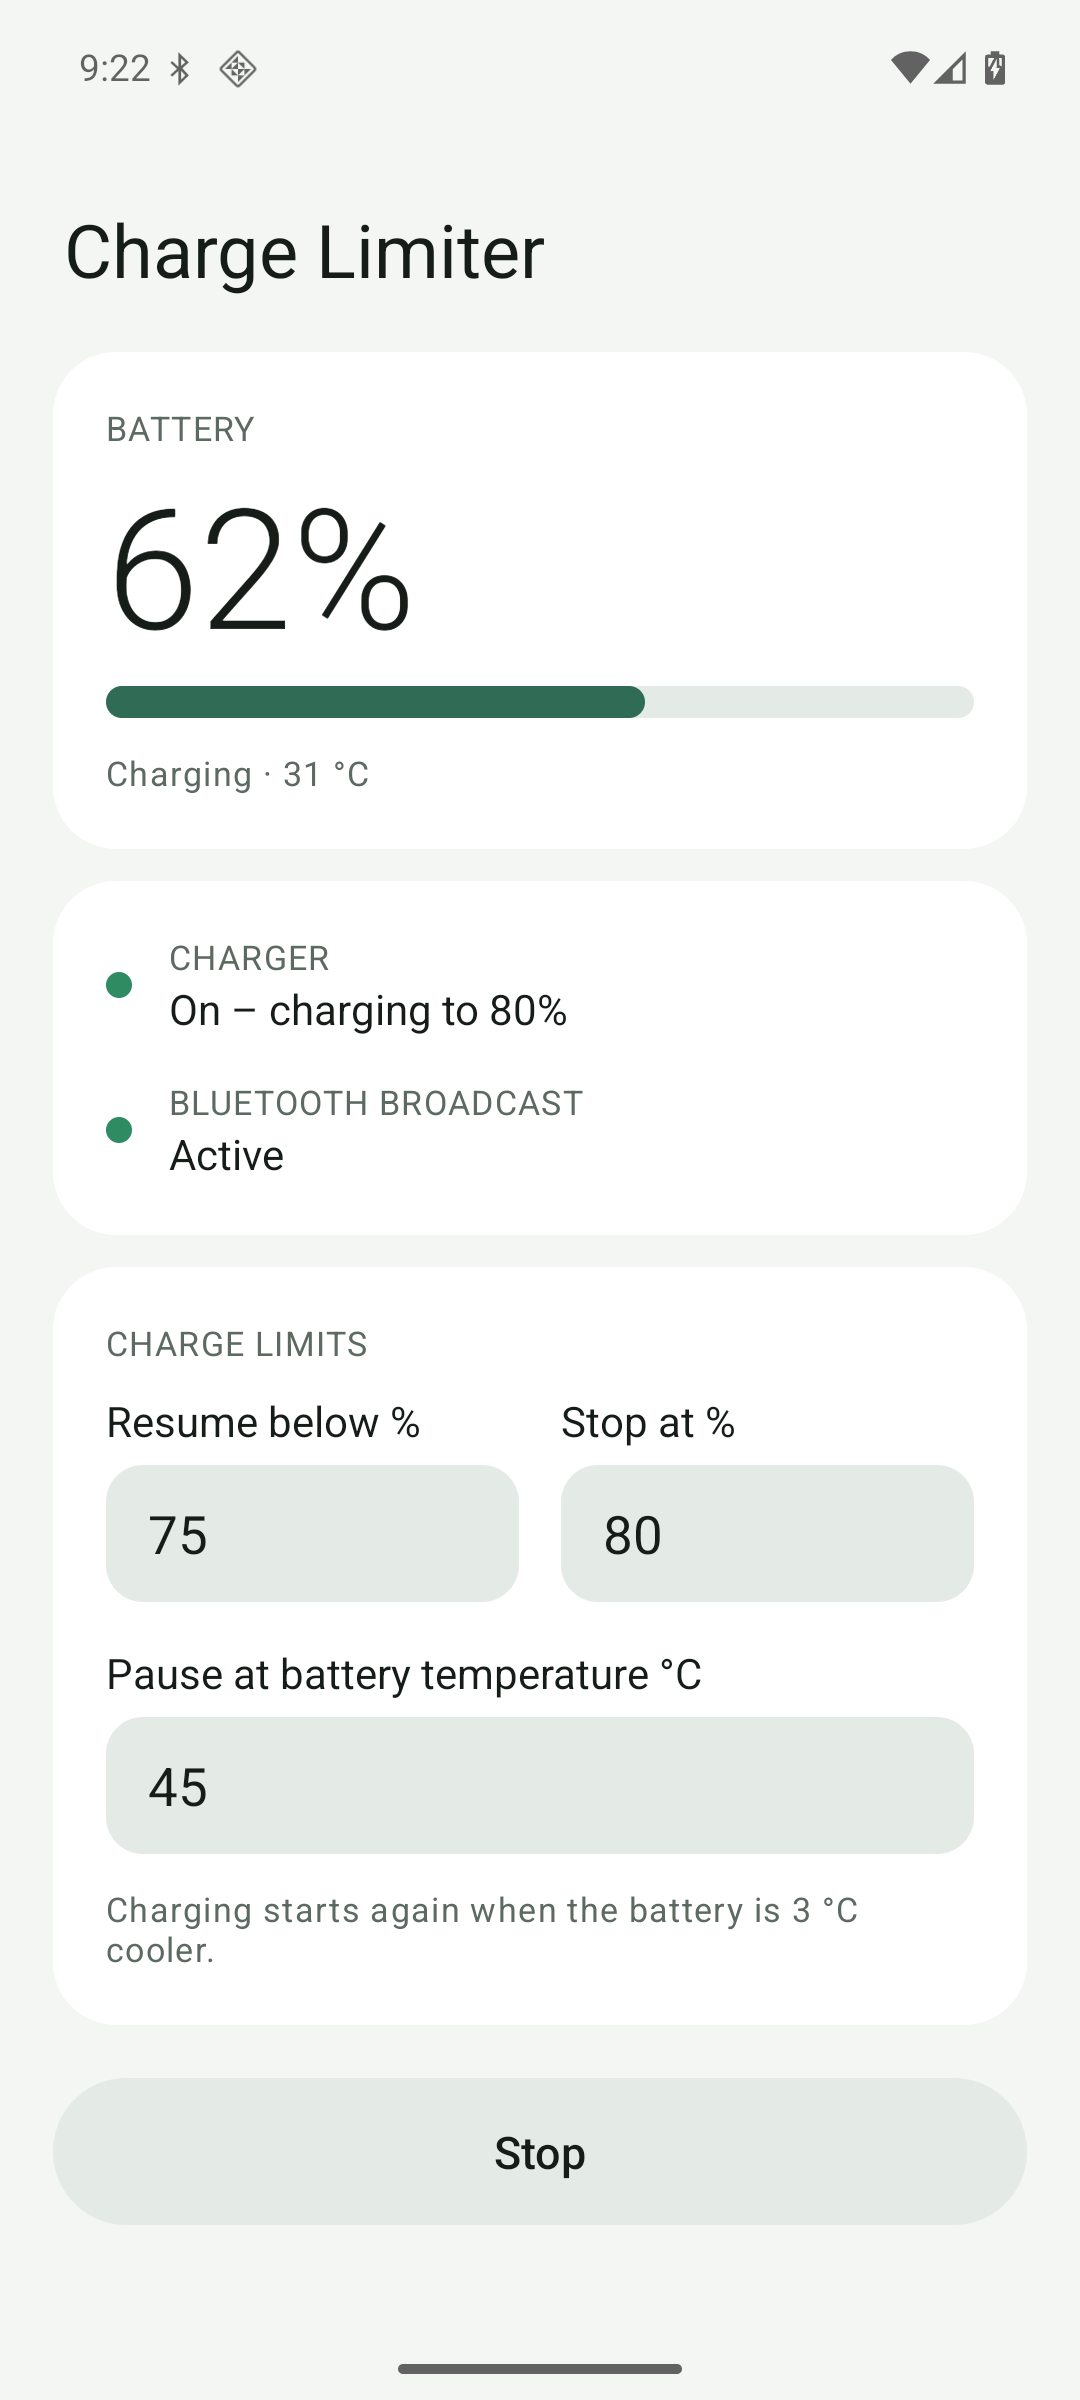
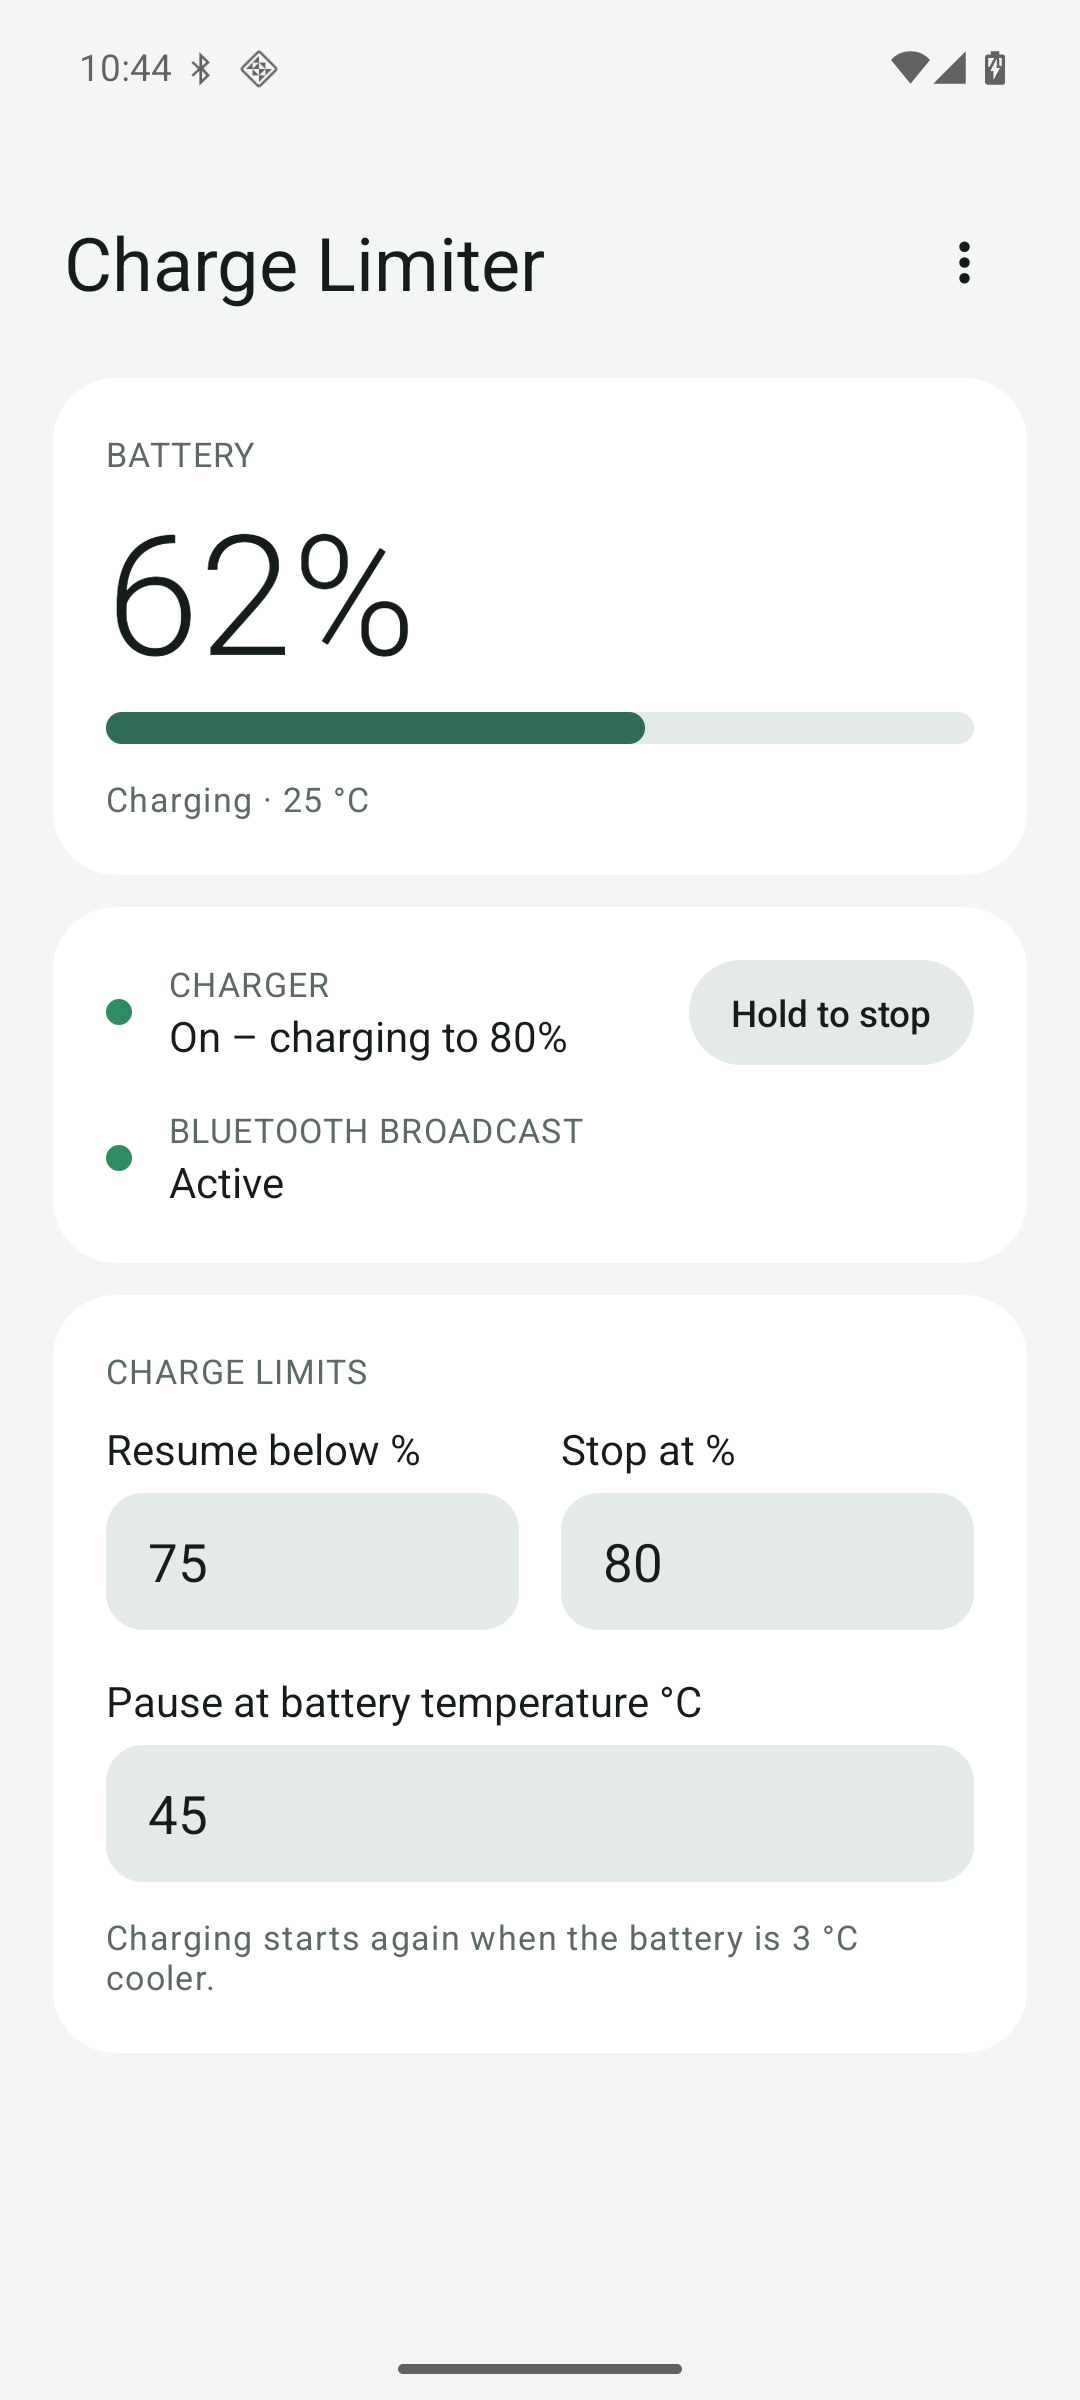
feat: inline hold-to-stop in the status card, updates in a menu

diff --git a/app/src/main/kotlin/app/chargelimit/MainActivity.kt b/app/src/main/kotlin/app/chargelimit/MainActivity.kt
@@ -21,6 +21,8 @@ import android.view.MotionEvent
 import android.view.View
 import android.widget.Button
 import android.widget.EditText
+import android.widget.ImageButton
+import android.widget.PopupMenu
 import android.widget.ProgressBar
 import android.widget.TextView
 import android.widget.Toast
@@ -38,7 +40,8 @@ class MainActivity : Activity() {
     private lateinit var high: EditText
     private lateinit var hot: EditText
     private lateinit var toggle: Button
-    private lateinit var version: TextView
+    private lateinit var stopHold: Button
+    private lateinit var menu: ImageButton
     private lateinit var update: Button
     private var holdAnimator: ValueAnimator? = null
     private var pendingRelease: Updater.Release? = null
@@ -58,7 +61,8 @@ class MainActivity : Activity() {
         high = findViewById(R.id.high)
         hot = findViewById(R.id.hot)
         toggle = findViewById(R.id.toggle)
-        version = findViewById(R.id.version)
+        stopHold = findViewById(R.id.stopHold)
+        menu = findViewById(R.id.menu)
         update = findViewById(R.id.update)
 
         showRange()
@@ -66,9 +70,11 @@ class MainActivity : Activity() {
         low.onFocusChangeListener = saveOnBlur
         high.onFocusChangeListener = saveOnBlur
         hot.onFocusChangeListener = saveOnBlur
-        toggle.setOnClickListener { if (settings.enabled) confirmStop() else startService() }
-        toggle.setOnTouchListener { _, event -> settings.enabled && onHoldTouch(event) }
-        update.setOnClickListener { pendingRelease?.let(::installUpdate) ?: checkForUpdate() }
+        toggle.setOnClickListener { startService() }
+        stopHold.setOnClickListener { confirmStop() }
+        stopHold.setOnTouchListener { _, event -> onHoldTouch(event) }
+        update.setOnClickListener { pendingRelease?.let(::installUpdate) }
+        menu.setOnClickListener { showMenu() }
     }
 
     // Android 13 added the not-exported flag.
@@ -89,7 +95,7 @@ class MainActivity : Activity() {
         if (settings.enabled && ChargeService.lastStatus == null) ChargeService.start(this)
         showStatus(ChargeService.lastStatus)
         showToggle()
-        showVersion()
+        checkDaily()
     }
 
     override fun onStop() {
@@ -165,9 +171,8 @@ class MainActivity : Activity() {
 
     private fun showToggle() {
         val running = settings.enabled
-        toggle.setText(if (running) R.string.hold_to_stop else R.string.start)
-        toggle.setBackgroundResource(if (running) R.drawable.button_hold else R.drawable.button_primary)
-        toggle.setTextColor(getColor(if (running) R.color.on_surface else R.color.on_accent))
+        toggle.visibility = if (running) View.GONE else View.VISIBLE
+        stopHold.visibility = if (running) View.VISIBLE else View.GONE
     }
 
     private fun showRange() {
@@ -266,7 +271,7 @@ class MainActivity : Activity() {
         return true
     }
 
-    private fun holdFill() = (toggle.background as? LayerDrawable)?.findDrawableByLayerId(R.id.fill)
+    private fun holdFill() = (stopHold.background as? LayerDrawable)?.findDrawableByLayerId(R.id.fill)
 
     private fun startHold() {
         cancelHold()
@@ -293,32 +298,46 @@ class MainActivity : Activity() {
         holdFill()?.level = 0
     }
 
-    private fun showVersion() {
+    /** Shows the menu with the version and the check for updates. */
+    private fun showMenu() {
         val current = Updater.currentVersion(this)
-        version.text = getString(R.string.version_label, current)
-        if (!UpdatePolicy.canSelfUpdate(current)) {
-            update.setText(R.string.update_dev)
-            update.isEnabled = false
-            return
+        val popup = PopupMenu(this, menu)
+        popup.menu.add(getString(R.string.version_label, current)).isEnabled = false
+        if (UpdatePolicy.canSelfUpdate(current)) {
+            popup.menu.add(R.string.update_check).setOnMenuItemClickListener {
+                checkForUpdate(byUser = true)
+                true
+            }
+        } else {
+            popup.menu.add(R.string.update_dev).isEnabled = false
         }
-        if (pendingRelease == null && UpdatePolicy.dueForCheck(System.currentTimeMillis(), settings.lastUpdateCheck)) {
-            checkForUpdate()
+        popup.show()
+    }
+
+    /** Looks for an update one time each day when the screen opens. */
+    private fun checkDaily() {
+        if (!UpdatePolicy.canSelfUpdate(Updater.currentVersion(this))) return
+        if (pendingRelease != null) return
+        if (UpdatePolicy.dueForCheck(System.currentTimeMillis(), settings.lastUpdateCheck)) {
+            checkForUpdate(byUser = false)
         }
     }
 
-    private fun checkForUpdate() {
-        update.isEnabled = false
-        update.setText(R.string.update_checking)
+    /** Shows the update button for a newer release. Tells the result only when the user asked. */
+    private fun checkForUpdate(byUser: Boolean) {
+        if (byUser) Toast.makeText(this, R.string.update_checking, Toast.LENGTH_SHORT).show()
         settings.lastUpdateCheck = System.currentTimeMillis()
         Updater.background({ Updater.newerRelease(applicationContext) }) { result ->
             if (isDestroyed) return@background
-            update.isEnabled = true
             val release = result.getOrNull()
             pendingRelease = release
-            update.text = when {
-                result.isFailure -> getString(R.string.update_check_failed)
-                release == null -> getString(R.string.update_none)
-                else -> getString(R.string.update_available, release.version)
+            if (release != null) {
+                update.text = getString(R.string.update_available, release.version)
+                update.isEnabled = true
+                update.visibility = View.VISIBLE
+            } else if (byUser) {
+                val message = if (result.isFailure) R.string.update_check_failed else R.string.update_none
+                Toast.makeText(this, message, Toast.LENGTH_LONG).show()
             }
         }
     }
@@ -334,6 +353,7 @@ class MainActivity : Activity() {
 
     private fun showUpdateFailed(message: String?) {
         update.isEnabled = true
+        update.visibility = View.VISIBLE
         update.text = getString(R.string.update_failed, message.orEmpty())
     }
 

diff --git a/README.md b/README.md
@@ -114,7 +114,8 @@ OnePlus, also enable **Autostart** for the app and set its battery saver to
 ## Updates
 
 The app checks this repository's releases once a day and when you open it. When
-a newer version exists it shows a notification and an **Update to …** button.
+a newer version exists it shows a notification and an **Update to …** button
+at the top. You can also check by hand from the ⋮ menu.
 The update is downloaded from GitHub and handed to Android's installer, which
 only accepts it if it carries the same signing key as the installed app.
 
